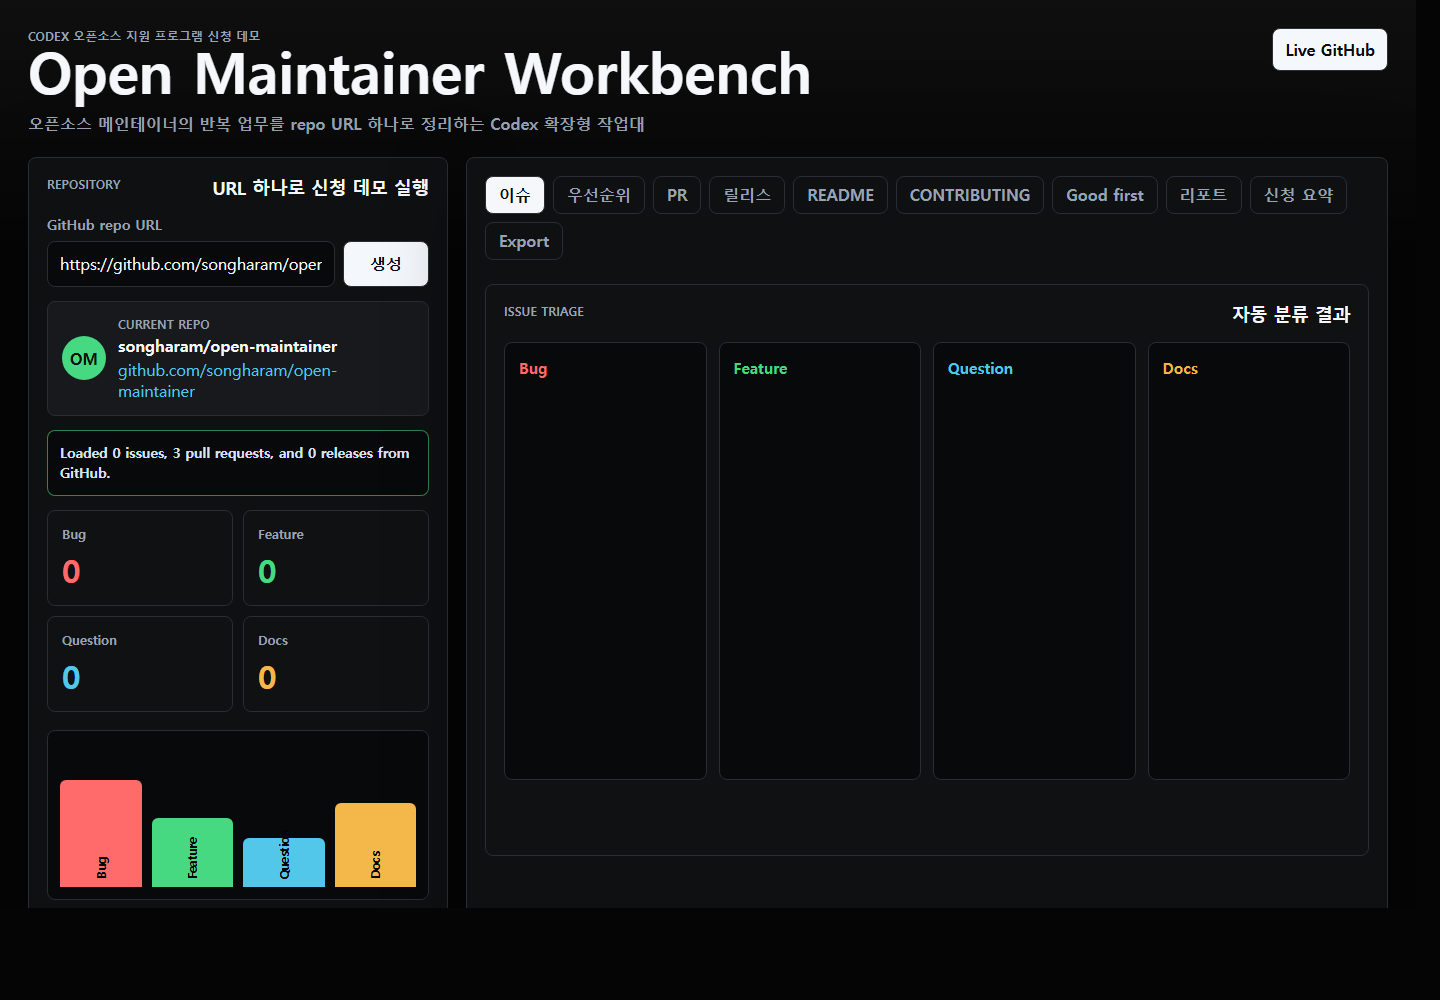
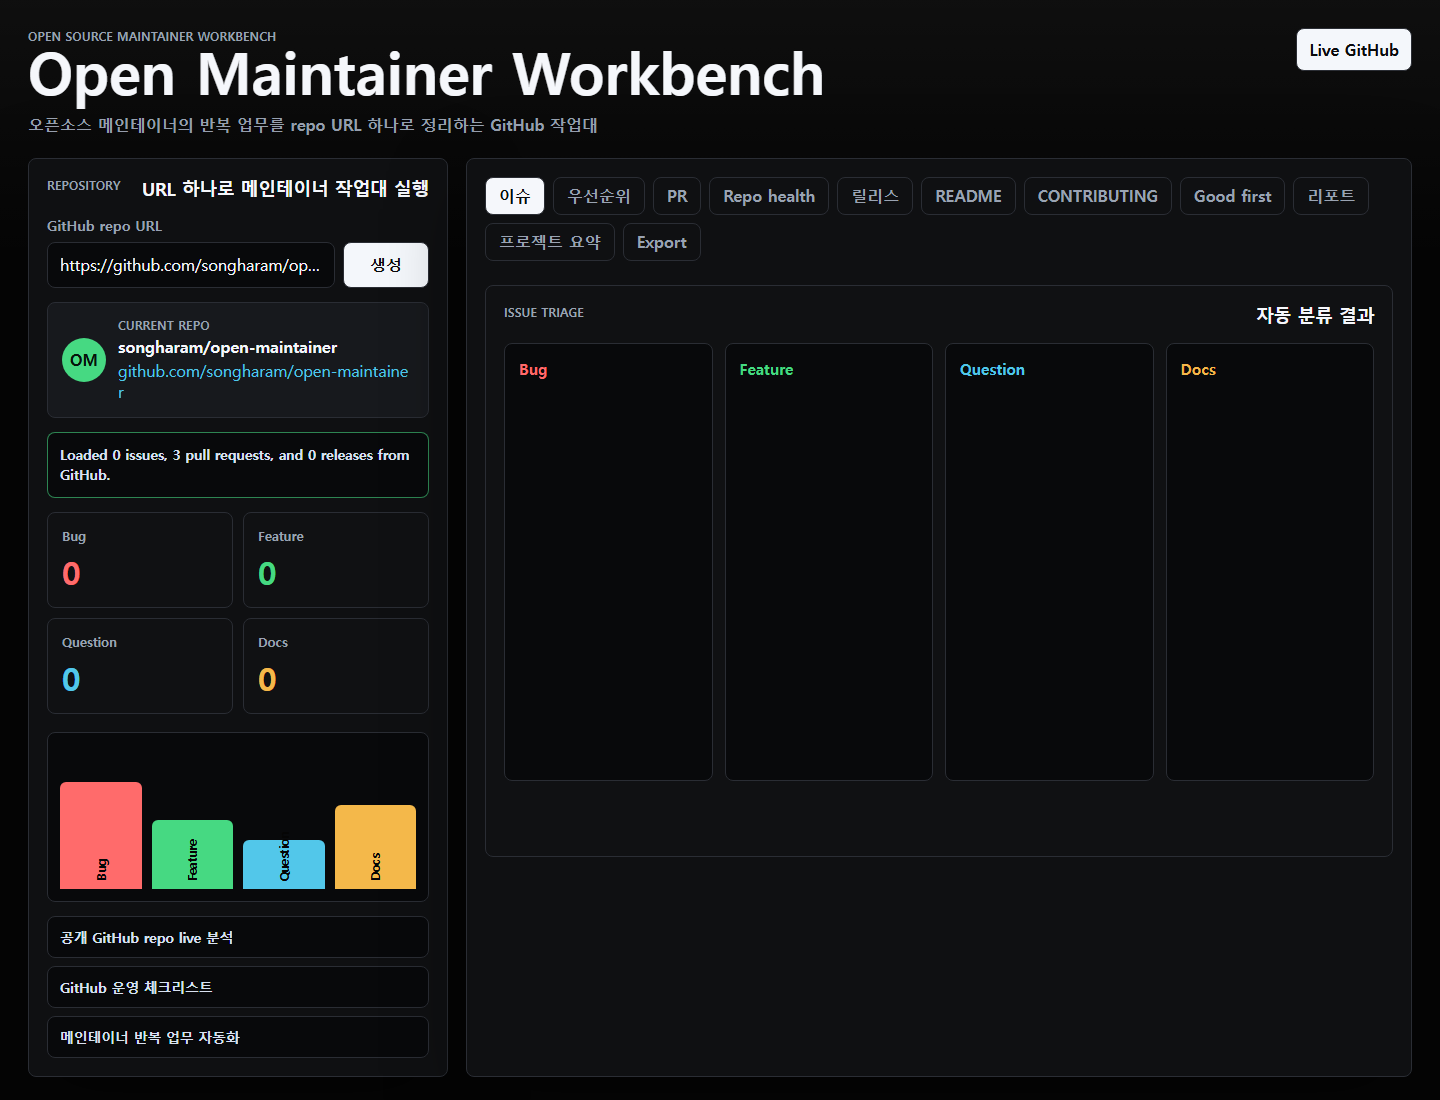
chore: refresh repo screenshots

diff --git a/styles.css b/styles.css
@@ -29,6 +29,7 @@ body {
   font-family:
     Inter, ui-sans-serif, system-ui, -apple-system, BlinkMacSystemFont, "Segoe UI",
     sans-serif;
+  overflow-x: hidden;
 }
 
 button,
@@ -52,6 +53,10 @@ button {
   justify-content: space-between;
   gap: 20px;
   margin-bottom: 22px;
+}
+
+.topbar > * {
+  min-width: 0;
 }
 
 .eyebrow,
@@ -86,6 +91,7 @@ h1 {
   font-size: 1rem;
   font-weight: 700;
   line-height: 1.45;
+  overflow-wrap: anywhere;
 }
 
 h2 {
@@ -186,6 +192,7 @@ h3 {
   background: #08090b;
   color: var(--text);
   padding: 0 12px;
+  text-overflow: ellipsis;
 }
 
 .repo-form button,
@@ -203,6 +210,7 @@ h3 {
   background: var(--panel-strong);
   box-shadow: none;
   min-width: 0;
+  overflow: hidden;
 }
 
 .provider-notice {
@@ -215,6 +223,7 @@ h3 {
   font-size: 0.86rem;
   font-weight: 800;
   line-height: 1.45;
+  overflow-wrap: anywhere;
 }
 
 .provider-notice[data-kind="live"] {
@@ -244,6 +253,7 @@ h3 {
   display: block;
   margin: 3px 0;
   overflow-wrap: anywhere;
+  word-break: break-word;
 }
 
 .repo-card a {
@@ -251,6 +261,8 @@ h3 {
   color: var(--cyan);
   text-decoration: none;
   overflow-wrap: anywhere;
+  word-break: break-all;
+  line-height: 1.35;
 }
 
 .repo-card > div {
@@ -329,6 +341,7 @@ h3 {
   color: #d9e2f1;
   font-size: 0.86rem;
   font-weight: 800;
+  overflow-wrap: anywhere;
 }
 
 .chart-bar {
@@ -539,7 +552,21 @@ h3 {
 
 @media (max-width: 760px) {
   .app-shell {
+    width: 100vw;
+    max-width: 100vw;
+    overflow: hidden;
     padding: 16px;
+  }
+
+  .workspace,
+  .control-panel,
+  .results-panel,
+  .tab-panel,
+  .repo-card,
+  .provider-notice,
+  .mini-chart,
+  .tabs {
+    max-width: 100%;
   }
 
   .topbar,
@@ -557,6 +584,21 @@ h3 {
   .issue-columns,
   .brief-grid {
     grid-template-columns: minmax(0, 1fr);
+  }
+
+  .control-panel,
+  .results-panel,
+  .tab-panel {
+    padding: 16px;
+  }
+
+  .repo-form input {
+    font-size: 0.9rem;
+  }
+
+  .tab {
+    min-height: 36px;
+    padding: 0 10px;
   }
 
   .issue-column {